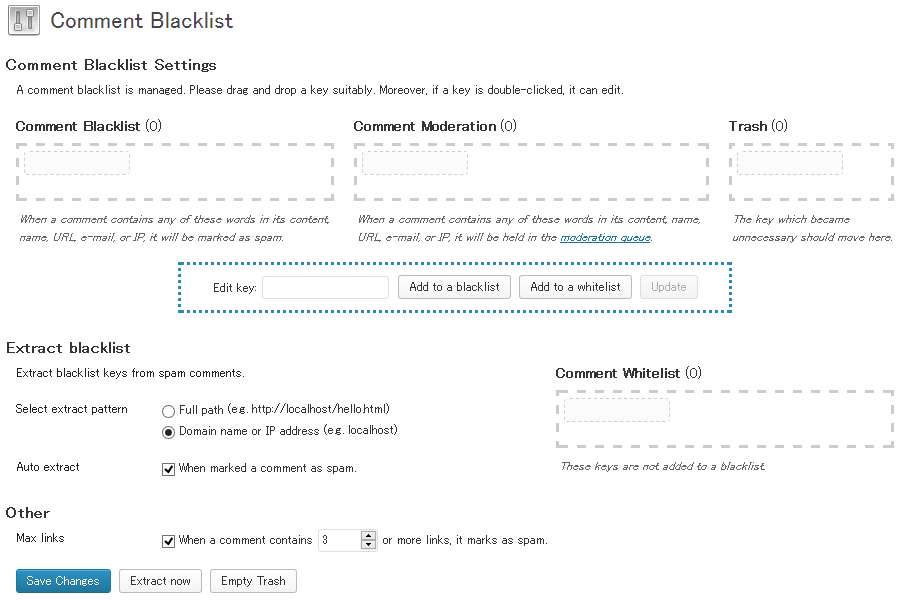
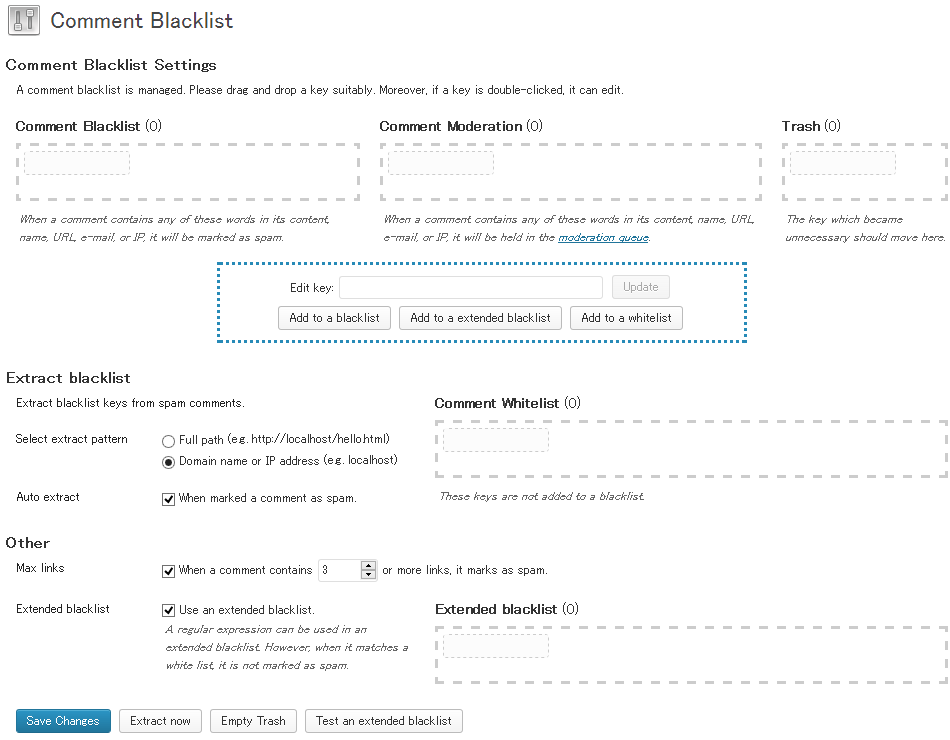
1.1.0 released. Extended blacklist can be used now.
git-svn-id: https://plugins.svn.wordpress.org/blacklist-keys-manager/trunk@774379 b8457f37-d9ea-0310-8a92-e5e31aec5664

diff --git a/blacklist-keys-manager.php b/blacklist-keys-manager.php
@@ -4,7 +4,7 @@ Plugin Name: Blacklist keys manager
 Plugin URI: http://elearn.jp/wpman/column/blacklist-keys-manager.html
 Description: This plugin manages a comment blacklist.
 Author: tmatsuur
-Version: 1.0.0
+Version: 1.1.0
 Author URI: http://12net.jp/
 */
 
@@ -34,7 +34,12 @@ class blacklist_keys_manager {
 		if ( isset( $this->properties['auto_extract'] ) && $this->properties['auto_extract'] )
 			add_action( 'spammed_comment', array( &$this, 'spammed_comment' ) );
 		if ( isset( $this->properties['spam_max_links'] ) && $this->properties['spam_max_links'] )
-			add_filter( 'pre_comment_approved' , array( &$this, 'extend_comment_approved' ), 10, 2 );
+			add_filter( 'pre_comment_approved' , array( &$this, 'maxlinks_comment_approved' ), 10, 2 );
+		if ( isset( $this->properties['exblacklist'] ) && ( $mod_keys = trim( $this->properties['exblacklist'] ) ) != '' ) {
+			if ( isset( $this->properties['use_extended_blacklist'] ) && $this->properties['use_extended_blacklist'] )
+				add_filter( 'pre_comment_approved', array( &$this, 'exblacklist_comment_approved' ), 10, 2 );
+			add_action( 'wp_ajax_test_exblacklist', array( &$this, 'test_exblacklist' ) );
+		}
 	}
 	function register_activation() {
 		blacklist_keys_manager_update_version();
@@ -80,7 +85,7 @@ class blacklist_keys_manager {
 	border: 3px dashed #CCCCFF;
 }
 .drag-frame ul {
-	margin: 0 0 1.5em 0;
+	margin: 0 1.5em 1.5em 0;
 }
 .drag-frame ul li {
 	margin: 1px;
@@ -94,6 +99,7 @@ class blacklist_keys_manager {
 	border-radius: 3px;
 	-webkit-border-radius: 3px;
 	-moz-border-radius: 3px;
+	white-space: nowrap;
 }
 .drag-frame ul li.ui-sortable-helper {
 	background-color: #FFFFFF;
@@ -139,12 +145,23 @@ class blacklist_keys_manager {
 	border: 3px dotted #278ab7;
 	padding: 10px;
 	text-align: center;
-	width: 52em;
+	width: 42em;
 	margin-left: auto;
 	margin-right: auto;
 }
 #key_name {
-	width: 15em;
+	width: 22em;
+}
+#test_exblacklist_result {
+	padding-left: 10px;
+	width: 98%;
+}
+#test_exblacklist_result table caption {
+	text-align: left;
+	padding: 0.25em;
+}
+#test_exblacklist_result table th {
+	text-align: center;
 }
 </style>
 <?php
@@ -170,7 +187,8 @@ class blacklist_keys_manager {
 		if ( preg_match_all( '/(https?:\/\/)([\.0-9a-zA-Z\-]+)([-_.!~*\'()a-zA-Z0-9;\/?:\@&=+\$,%]*)/u', $c->comment_content, $_matched ) ) {
 			$keys = ( $this->properties['extract_url'] == 'domain' )? $_matched[2]: $_matched[0];
 			foreach ( $keys as $key ) {
-				if ( !in_array( $key, $_blacklist ) && !in_array( $key, $_whitelist ) && !in_array( $key, $_moderation ) ) {
+				$key = trim( $key );
+				if ( !in_array( $key, $_blacklist ) && !in_array( $key, $_whitelist ) && !in_array( $key, $_moderation ) && !$this->in_exblacklist( $key ) ) {
 					foreach ( $_blacklist as $bi=>$_black ) {
 						if ( strpos( $_black, $key ) !== false ) {
 							// ブラックリストの単語が見つかったキーを含んでいたら
@@ -203,9 +221,9 @@ class blacklist_keys_manager {
 			update_option( BLACKLIST_KEYS_MANAGER_PROPERTIES, $this->properties );
 		}
 	}
-	function extend_comment_approved( $approved, $commentdata ) {
-		if ( isset( $this->properties['spam_max_links'] ) && $this->properties['spam_max_links'] &&
-			$approved == 0 &&
+	function maxlinks_comment_approved( $approved, $commentdata ) {
+		if ( $approved == 0 &&
+			isset( $this->properties['spam_max_links'] ) && $this->properties['spam_max_links'] &&
 			preg_match_all( '/(https?:\/\/)([\.0-9a-zA-Z\-]+)([-_.!~*\'()a-zA-Z0-9;\/?:\@&=+\$,%]*)/u', $commentdata['comment_content'], $_matched ) ) {
 			// コメント中にURLが見つかったら
 			if (count( $_matched[0] ) >= $this->properties['max_links'] )
@@ -213,17 +231,108 @@ class blacklist_keys_manager {
 		}
 		return $approved;
 	}
+	function exblacklist_comment_approved( $approved, $commentdata ) {
+		if ( $approved == 0 ) {
+			extract( $commentdata, EXTR_SKIP );
+			$_whitelist = $this->keys( $this->properties['whitelist'] );
+			foreach ( (array)explode( "\n", trim( $this->properties['exblacklist'] ) ) as $word ) {
+				$word = trim( $word );
+				if ( empty( $word ) )
+					continue;
+
+				$pattern = "#$word#i";
+				if (	( preg_match( $pattern, $comment_author, $matched ) && !in_array( $matched[0], $_whitelist ) )
+						|| ( preg_match( $pattern, $comment_author_email, $matched ) && !in_array( $matched[0], $_whitelist ) )
+						|| ( preg_match( $pattern, $comment_author_url, $matched ) && !in_array( $matched[0], $_whitelist ) )
+						|| ( preg_match_all( $pattern, $comment_content, $matched ) && count( array_intersect( $matched[0], $_whitelist ) ) == 0 )
+						|| ( preg_match( $pattern, $comment_author_IP, $matched ) && !in_array( $matched[0], $_whitelist ) )
+						|| ( preg_match( $pattern, $comment_agent, $matched ) && !in_array( $matched[0], $_whitelist ) ) )
+					return 'spam';
+			}
+		}
+		return $approved;
+	}
+	function test_exblacklist() {
+		if ( isset( $_POST['exblacklist'] ) )
+			$exblacklist = explode( "\n", stripslashes_deep( $_POST['exblacklist'] ) );
+		else
+			$exblacklist = explode( "\n", $this->properties['exblacklist'] );
+		$_whitelist = $this->keys( $this->properties['whitelist'] );
+		$hits = array();
+		add_filter( 'comments_clauses', array( &$this, 'all_comments_clauses' ) );
+		$comments = get_comments();
+		foreach ( $comments as $c ) {
+			foreach ( $exblacklist as $word ) {
+				$word = trim( $word );
+				if ( empty( $word ) )
+					continue;
+
+				$pattern = "#$word#i";
+				if ( !isset( $hits[$word] ) ) {
+					$hits[$word]['count'] = 0;
+					$hits[$word]['word'] = array();
+				}
+				if (	( preg_match( $pattern, $c->comment_author, $matched ) && !in_array( $matched[0], $_whitelist ) )
+						|| ( preg_match( $pattern, $c->comment_author_email, $matched ) && !in_array( $matched[0], $_whitelist ) )
+						|| ( preg_match( $pattern, $c->comment_author_url, $matched ) && !in_array( $matched[0], $_whitelist ) )
+						|| ( preg_match_all( $pattern, $c->comment_content, $matched ) && count( array_intersect( $matched[0], $_whitelist ) ) == 0 )
+						|| ( preg_match( $pattern, $c->comment_author_IP, $matched ) && !in_array( $matched[0], $_whitelist ) )
+						|| ( preg_match( $pattern, $c->comment_agent, $matched ) && !in_array( $matched[0], $_whitelist ) ) ) {
+					$hits[$word]['count']++;
+					$hits[$word]['word'] = array_unique( array_merge( $hits[$word]['word'], (array)$matched[0] ) );
+				}
+			}
+		}
+		$response = array( 'ncomments'=>count( $comments ), 'result'=>$hits );
+		nocache_headers();
+		header( "Content-Type: application/json; charset=".get_bloginfo( 'charset' ) );
+		echo json_encode( $response );
+		die();
+	}
+	function in_exblacklist( $key ) {
+		if ( !empty( $key ) && isset( $this->properties['use_extended_blacklist'] ) && $this->properties['use_extended_blacklist'] &&
+			isset( $this->properties['exblacklist'] ) && ( $ex_keys = trim( $this->properties['exblacklist'] ) ) != '' ) {
+			$exblacklist = explode( "\n", $ex_keys );
+			foreach ( $exblacklist as $word ) {
+				$word = trim( $word );
+				if ( empty( $word ) )
+					continue;
+				if ( preg_match( "#$word#i", $key ) ) {
+					return true;
+				}
+			}
+		}
+		return false;
+	}
+	function all_comments_clauses( $clauses ) {
+		if ( isset( $clauses['where'] ) && $clauses['where'] == "( comment_approved = '0' OR comment_approved = '1' )" )
+			$clauses['where'] = 'comment_approved IS NOT NULL';
+		return $clauses;
+	}
 	function properties() {
 		$message = '';
 		if ( isset( $_POST['properties'] ) ) {
-			update_option( 'blacklist_keys', $_POST['properties']['blacklist_keys'] );
-			update_option( 'moderation_keys', $_POST['properties']['moderation_keys'] );
+			$_POST['properties'] = stripslashes_deep( $_POST['properties'] );
 			$this->properties['graylist'] = $_POST['properties']['graylist_keys'];
 			$this->properties['whitelist'] = $_POST['properties']['whitelist_keys'];
 			$this->properties['extract_url'] = $_POST['properties']['extract_url'];
 			$this->properties['auto_extract'] = isset( $_POST['properties']['auto_extract'] );
 			$this->properties['spam_max_links'] = isset( $_POST['properties']['spam_max_links'] );
 			$this->properties['max_links'] = intval( $_POST['properties']['max_links'] );
+			$this->properties['use_extended_blacklist'] = isset( $_POST['properties']['use_extended_blacklist'] );
+			$this->properties['exblacklist'] = $_POST['properties']['exblacklist_keys'];
+			$new_blacklist = explode( "\n", trim( $_POST['properties']['blacklist_keys'] ) );
+			$new_glaylist = explode( "\n", trim( $this->properties['graylist'] ) );
+			foreach ( $new_blacklist as $i=>$key ) {
+				if ( $this->in_exblacklist( $key ) ) {
+					unset( $new_blacklist[$i] );
+					if ( !in_array( $key, $new_glaylist ) )
+						$new_glaylist[] = $key;
+				}
+			}
+			update_option( 'blacklist_keys', implode( "\n", $new_blacklist ) );
+			update_option( 'moderation_keys', $_POST['properties']['moderation_keys'] );
+			$this->properties['graylist'] = implode( "\n", $new_glaylist );
 			update_option( BLACKLIST_KEYS_MANAGER_PROPERTIES, $this->properties );
 			if ( isset( $_POST['delete'] ) ) {
 				$deleted = explode( "\n", trim( $_POST['properties']['delete_keys'] ) );
@@ -240,7 +349,8 @@ class blacklist_keys_manager {
 					if ( preg_match_all( '/(https?:\/\/)([\.0-9a-zA-Z\-]+)([-_.!~*\'()a-zA-Z0-9;\/?:\@&=+\$,%]*)/u', $c->comment_content, $_matched ) ) {
 						$keys = ( $this->properties['extract_url'] == 'domain' )? $_matched[2]: $_matched[0];
 						foreach ( $keys as $key ) {
-							if ( !in_array( $key, $_blacklist ) && !in_array( $key, $_whitelist ) && !in_array( $key, $_moderation ) ) {
+							$key = trim( $key );
+							if ( !in_array( $key, $_blacklist ) && !in_array( $key, $_whitelist ) && !in_array( $key, $_moderation ) && !$this->in_exblacklist( $key ) ) {
 								foreach ( $_blacklist as $bi=>$_black ) {
 									if ( strpos( $_black, $key ) !== false ) {
 										// ブラックリストの単語が見つかったキーを含んでいたら
@@ -285,8 +395,10 @@ class blacklist_keys_manager {
 		asort( $_moderation );
 		$_blacklist = $this->keys( get_option( 'blacklist_keys' ) );
 		asort( $_blacklist );
+		$_exblacklist = $this->keys( $this->properties['exblacklist'] );
+		asort( $_exblacklist );
 		$key_no = 1;
-		$nkeys = count( $_graylist )+count( $_whitelist )+count( $_moderation )+count( $_blacklist )+1001;
+		$nkeys = count( $_graylist )+count( $_whitelist )+count( $_moderation )+count( $_blacklist )+count( $_exblacklist )+1001;
 ?>
 <div id="<?php echo self::PROPERTIES_NAME; ?>" class="wrap">
 <div id="icon-options-general" class="icon32"><br /></div>
@@ -334,9 +446,12 @@ class blacklist_keys_manager {
 <td colspan="3">
 <div class="edit-frame">
 <label id="edit_label" for="key_name"><?php _e( 'Edit key:',BLACKLIST_KEYS_MANAGER_DOMAIN ); ?></label> <input type="text" name="key_name" id="key_name" value="" />&nbsp;
+<button id="update_key" class="button" disabled="disabled"><?php _e( 'Update',BLACKLIST_KEYS_MANAGER_DOMAIN ); ?></button>&nbsp;
+<div style="margin-top: 0.5em;">
 <button id="add_blacklist" class="button"><?php _e( 'Add to a blacklist',BLACKLIST_KEYS_MANAGER_DOMAIN ); ?></button>&nbsp;
+<button id="add_exblacklist" class="button"><?php _e( 'Add to a extended blacklist',BLACKLIST_KEYS_MANAGER_DOMAIN ); ?></button>&nbsp;
 <button id="add_whitelist" class="button"><?php _e( 'Add to a whitelist',BLACKLIST_KEYS_MANAGER_DOMAIN ); ?></button>&nbsp;
-<button id="update_key" class="button" disabled="disabled"><?php _e( 'Update',BLACKLIST_KEYS_MANAGER_DOMAIN ); ?></button>
+</div>
 <input type="hidden" id="last_key_no" value="<?php echo $nkeys; ?>" />
 <input type="hidden" id="edit_key_no" value="0" />
 </div>
@@ -348,7 +463,7 @@ class blacklist_keys_manager {
 <caption><?php _e( 'Extract blacklist',BLACKLIST_KEYS_MANAGER_DOMAIN ); ?></caption>
 <tr valign="top">
 <th colspan="2"><?php _e( 'Extract blacklist keys from spam comments.', BLACKLIST_KEYS_MANAGER_DOMAIN ); ?></th>
-<td rowspan="3"><h3><?php _e( 'Comment Whitelist', BLACKLIST_KEYS_MANAGER_DOMAIN ); ?> <span id="nwhitelist">(<?php echo count( $_whitelist ); ?>)</span></h3><div class="drag-frame"><ul id="whitelist_keys_list" class="drag-drop">
+<td rowspan="3" style="width: 56%;"><h3><?php _e( 'Comment Whitelist', BLACKLIST_KEYS_MANAGER_DOMAIN ); ?> <span id="nwhitelist">(<?php echo count( $_whitelist ); ?>)</span></h3><div class="drag-frame"><ul id="whitelist_keys_list" class="drag-drop">
 <?php if ( count( $_whitelist ) > 0 ) { foreach ( $_whitelist as $value ) { ?>
 <li id="key<?php echo $key_no; $key_no++ ?>" class="key"><?php _e( $value ); ?></li>
 <?php } } else { ?>
@@ -376,18 +491,34 @@ class blacklist_keys_manager {
 <caption><?php _e( 'Other', BLACKLIST_KEYS_MANAGER_DOMAIN ); ?></caption>
 <tr valign="middle">
 <th><?php _e( 'Max links', BLACKLIST_KEYS_MANAGER_DOMAIN ); ?></th>
-<td><input type="checkbox" name="properties[spam_max_links]" value="1" <?php checked( $this->properties['spam_max_links'] ); ?> />&nbsp;<?php printf( __( 'When a comment contains %s or more links, it marks as spam.', BLACKLIST_KEYS_MANAGER_DOMAIN ), '<input name="properties[max_links]" type="number" step="1" min="1" id="max_links" value="' . esc_attr( isset( $this->properties['max_links'] )? $this->properties['max_links']: get_option('comment_max_links')+1 ) . '" class="small-text" />' ); ?></td>
+<td colspan="2"><input type="checkbox" name="properties[spam_max_links]" value="1" <?php checked( $this->properties['spam_max_links'] ); ?> />&nbsp;<?php printf( __( 'When a comment contains %s or more links, it marks as spam.', BLACKLIST_KEYS_MANAGER_DOMAIN ), '<input name="properties[max_links]" type="number" step="1" min="1" id="max_links" value="' . esc_attr( isset( $this->properties['max_links'] )? $this->properties['max_links']: get_option('comment_max_links')+1 ) . '" class="small-text" />' ); ?></td>
 </tr>
 <tr valign="top">
-<td colspan="2">
+<th><?php _e( 'Extended blacklist', BLACKLIST_KEYS_MANAGER_DOMAIN ); ?></th>
+<td><input type="checkbox" name="properties[use_extended_blacklist]" id="use_extended_blacklist" value="1" <?php checked( $this->properties['use_extended_blacklist'] ); ?> />&nbsp;<label for="use_extended_blacklist"><?php _e( 'Use an extended blacklist.', BLACKLIST_KEYS_MANAGER_DOMAIN ); ?></label>
+<p class="description"><?php _e( 'A regular expression can be used in an extended blacklist. However, when it matches a white list, it is not marked as spam.', BLACKLIST_KEYS_MANAGER_DOMAIN ); ?></p></td>
+<td style="width: 56%;"><h3><?php _e( 'Extended blacklist', BLACKLIST_KEYS_MANAGER_DOMAIN ); ?> <span id="nexblacklist">(<?php echo count( $_exblacklist ); ?>)</span></h3>
+<div class="drag-frame"><ul id="exblacklist_keys_list" class="drag-drop">
+<?php if ( count( $_exblacklist ) > 0 ) { foreach ( $_exblacklist as $value ) { ?>
+<li id="key<?php echo $key_no; $key_no++ ?>" class="key"><?php _e( $value ); ?></li>
+<?php } } else { ?>
+<li class="ui-state-highlight ui-state-placeholder ui-state-disabled">&nbsp;</li>
+<?php } ?>
+</ul></div>
+</td>
+</tr>
+<tr valign="top">
+<td colspan="3">
 <input type="hidden" id="blacklist_keys_value" name="properties[blacklist_keys]" value="" />
+<input type="hidden" id="exblacklist_keys_value" name="properties[exblacklist_keys]" value="" />
 <input type="hidden" id="moderation_keys_value" name="properties[moderation_keys]" value="" />
 <input type="hidden" id="graylist_keys_value" name="properties[graylist_keys]" value="" />
 <input type="hidden" id="whitelist_keys_value" name="properties[whitelist_keys]" value="" />
 <input type="hidden" id="delete_keys_value" name="properties[delete_keys]" value="" />
 <input type="submit" id="properties_submit" name="submit" value="<?php esc_attr_e( 'Save Changes' ); ?>" class="button-primary" />&nbsp;
 <input type="submit" id="extract_blacklist" name="extract" value="<?php esc_attr_e( 'Extract now', BLACKLIST_KEYS_MANAGER_DOMAIN ); ?>" class="button" />&nbsp;
-<input type="submit" id="delete_candidate" name="delete" value="<?php esc_attr_e( 'Empty Trash' ); ?>" class="button" />
+<input type="submit" id="delete_candidate" name="delete" value="<?php esc_attr_e( 'Empty Trash' ); ?>" class="button" />&nbsp;
+<input type="button" id="test_exblacklist" value="<?php esc_attr_e( 'Test an extended blacklist', BLACKLIST_KEYS_MANAGER_DOMAIN ); ?>" class="button" />
 </td>
 </tr>
 </table>
@@ -411,6 +542,9 @@ class blacklist_keys_manager {
 		$( '#form-properties' ).submit( function () {
 			$( '#blacklist_keys_list li.key' ).each( function () {
 				$( '#blacklist_keys_value' ).val( $( '#blacklist_keys_value' ).val()+$(this).text()+"\n" );
+			} );
+			$( '#exblacklist_keys_list li.key' ).each( function () {
+				$( '#exblacklist_keys_value' ).val( $( '#exblacklist_keys_value' ).val()+$(this).text()+"\n" );
 			} );
 			$( '#moderation_keys_list li.key' ).each( function () {
 				$( '#moderation_keys_value' ).val( $( '#moderation_keys_value' ).val()+$(this).text()+"\n" );
@@ -464,9 +598,11 @@ class blacklist_keys_manager {
 				$( '#key_name' ).val( $(this).html() );
 				$( '#edit_key_no' ).val( $(this).attr( 'id' ).replace( 'key', '' ) );
 				$( '#update_key' ).removeAttr( 'disabled' );
+				edit_offset = $( '#edit_label' ).offset();
+				$( 'body,html' ).animate( { scrollTop: ( edit_offset.top*2/3 )+'px' }, 500 );
 			}
 		} );
-		$( '#add_blacklist,#add_whitelist,#update_key' ).click( function () {
+		$( '#add_blacklist,#add_exblacklist,#add_whitelist,#update_key' ).click( function () {
 			var new_key = $.trim( $( '#key_name' ).val() );
 			if ( new_key != '' ) {
 				var already = null;
@@ -487,6 +623,9 @@ class blacklist_keys_manager {
 						$( '#blacklist_keys_list' ).append( new_item );
 					else if ( $(this).attr( 'id' ) == 'add_whitelist' )
 						$( '#whitelist_keys_list' ).append( new_item );
+					else if ( $(this).attr( 'id' ) == 'add_exblacklist' ) {
+						$( '#exblacklist_keys_list' ).append( new_item );
+					}
 					$( '#last_key_no' ).val( parseInt( last_key_no )+1 );
 				}
 				$( '#key_name' ).val( '' );
@@ -495,6 +634,45 @@ class blacklist_keys_manager {
 //				return false;
 			} else
 				return false;
+		} );
+		$( '#test_exblacklist' ).click( function () {
+			var exblacklist = '';
+			$( '#exblacklist_keys_list li.key' ).each( function () { exblacklist += $.trim( $(this).text() )+"\n"; } );
+			if ( exblacklist != '' ) {
+				var request_html = '<?php _e( 'During the test...', BLACKLIST_KEYS_MANAGER_DOMAIN ); ?>';
+				if ( $( '#test_exblacklist_result' ).length == 1 )
+					$( '#test_exblacklist_result' ).html( request_html );
+				else
+					$( '#<?php echo self::PROPERTIES_NAME; ?>' ).append( '<div id="test_exblacklist_result">'+request_html+'</div>' );
+				$.ajax( {
+					type: 'POST',
+					url: '<?php echo admin_url( 'admin-ajax.php' ); ?>',
+					data: {
+						"action": "test_exblacklist",
+						"exblacklist": exblacklist
+					},
+					dataType : 'json',
+					timeout: 30000,
+					success: function ( data ) {
+						var result_html = '<table class="wp-list-table widefat"><caption><?php _e( 'Result of the test', BLACKLIST_KEYS_MANAGER_DOMAIN ); ?> (<?php _e( 'Amount of comments:', BLACKLIST_KEYS_MANAGER_DOMAIN ); ?> '+data.ncomments+')</caption><thead><tr><th><?php _e( 'Extended blacklist key', BLACKLIST_KEYS_MANAGER_DOMAIN ); ?></th><th><?php _e( 'Matched comments', BLACKLIST_KEYS_MANAGER_DOMAIN ); ?></th><th width="70%"><?php _e( 'Matched words', BLACKLIST_KEYS_MANAGER_DOMAIN ); ?></th></tr></thead>';
+						for ( var key in data.result ) {
+							if ( Array.isArray( data.result[key]['word'] ) && data.result[key]['word'].length > 0 )
+								words = data.result[key]['word'].join( ' ' );
+							else
+								words = '&nbsp;';
+							result_html += '<tr><td>'+key+'</td><td class="num">'+data.result[key]['count']+'</td><td>'+words+'</td></tr>';
+						}
+						result_html += '</table>';
+						$( '#test_exblacklist_result' ).html( result_html );
+						result_offset = $( '#test_exblacklist_result' ).offset();
+						$( 'body,html' ).animate( { scrollTop: ( result_offset.top-30 )+'px' }, 500 );
+					},
+					error: function ( data, status ) {
+						$( '#test_exblacklist_result' ).html( 'Sorry! '+status );
+					}
+				} );
+			}
+			return false;
 		} );
 	} );
 } )( jQuery );

diff --git a/config.php b/config.php
@@ -1,7 +1,7 @@
 <?php
 define( 'BLACKLIST_KEYS_MANAGER_DOMAIN', 'blacklist-keys-manager' );
 define( 'BLACKLIST_KEYS_MANAGER_DB_VERSION_NAME', 'blacklist-keys-manager-db-version' );
-define( 'BLACKLIST_KEYS_MANAGER_DB_VERSION', '1.00' );
+define( 'BLACKLIST_KEYS_MANAGER_DB_VERSION', '1.1.0' );
 define( 'BLACKLIST_KEYS_MANAGER_PROPERTIES', 'blacklist-keys-manager-properties' );
 
 function blacklist_keys_manager_update_version() {
